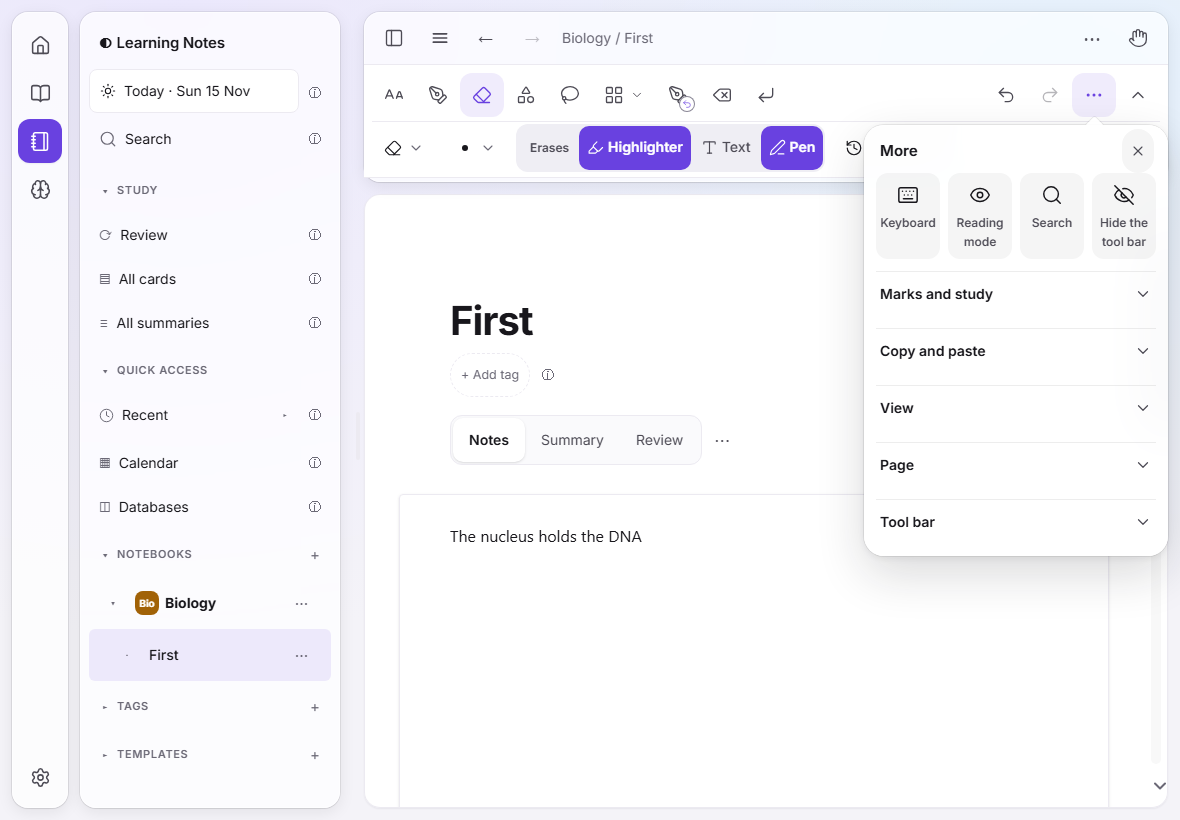
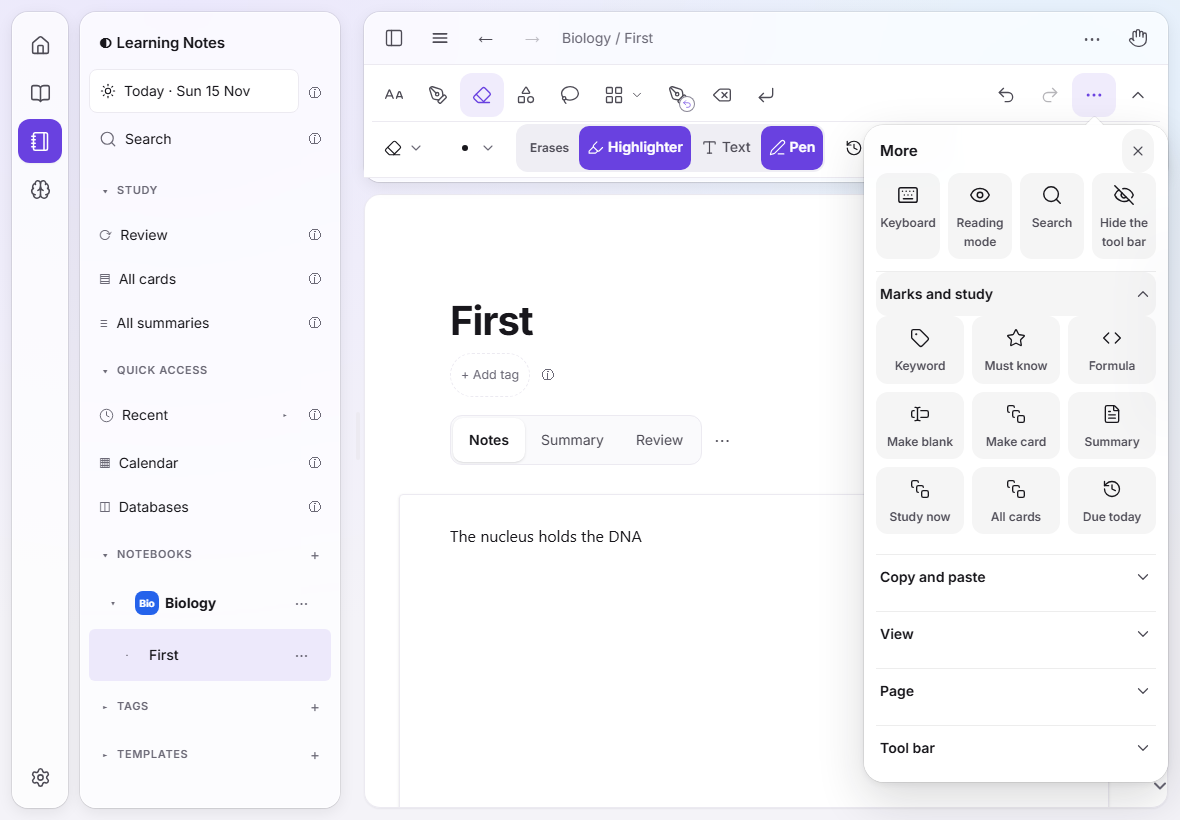
2A.12 review 2: shots open the study fold by test id (no swallowed miss), dark check, Copy and paste shot, pictures retaken

diff --git a/e2e/toolbarV9MoreShots.spec.ts b/e2e/toolbarV9MoreShots.spec.ts
@@ -1,6 +1,6 @@
 // Browser types for code that runs inside the page.
 /// <reference lib="dom" />
-import { test } from '@playwright/test'
+import { expect, test, type Page } from '@playwright/test'
 import { mkdirSync } from 'node:fs'
 import { createNotebook, startInMode, typeInEditor } from './helpers.ts'
 
@@ -47,13 +47,60 @@ for (const level of ['beginner', 'professional'] as const)
         await page.getByTestId('v8-tool-pen').click()
         await page.getByTestId('v8-tool-eraser').click()
         await page.getByTestId('v8-more').click()
-        await page
-          .getByRole('button', { name: 'Mark for review' })
-          .click()
-          .catch(() => {})
-        await page.waitForTimeout(600)
+        await openFold(page, 'more-group-study')
+        if (theme === 'dark') {
+          // Section 7: the dark picture must really be dark.
+          await expect(page.locator('html')).toHaveAttribute(
+            'data-theme',
+            'night',
+          )
+          const bg = await page.evaluate(
+            () => getComputedStyle(document.body).backgroundColor,
+          )
+          const [r, g, b] = (bg.match(/\d+/g) ?? []).map(Number)
+          expect(r + g + b, `body background ${bg}`).toBeLessThan(150)
+        }
         mkdirSync(OUT, { recursive: true })
         await page.screenshot({
           path: `${OUT}/more-${level}-${theme}-${size}.png`,
         })
       })
+
+/** Opens a More card fold by its test id; a missed click fails the shot. */
+async function openFold(page: Page, testId: string) {
+  const head = page.getByTestId(testId).locator('.fgroup-head')
+  await head.scrollIntoViewIfNeeded()
+  await head.click()
+  await expect(head).toHaveAttribute('aria-expanded', 'true')
+  await page.waitForTimeout(600)
+}
+
+test('more professional light ipad-upright copy open', async ({ page }) => {
+  await page.setViewportSize({ width: 820, height: 1180 })
+  await page.emulateMedia({ colorScheme: 'light' })
+  await page.addInitScript(() => {
+    localStorage.setItem(
+      'learning-notes:level',
+      JSON.stringify({
+        level: 'professional',
+        unlocked: ['tb.layouts', 'tb.allTools'],
+      }),
+    )
+    localStorage.setItem('learning-notes:theme', JSON.stringify('light'))
+  })
+  await startInMode(page, 'touch')
+  await page.goto('/?flags=toolbar.v8,toolbar.menu')
+  await createNotebook(page, 'Biology', 'First')
+  await typeInEditor(page, 'The nucleus holds the DNA')
+  await page.getByTestId('v8-more').click()
+  await openFold(page, 'more-group-copy')
+  for (const id of ['copy', 'cut', 'paste']) {
+    const tile = page.getByTestId(`v8-more-${id}`)
+    await tile.scrollIntoViewIfNeeded()
+    await expect(tile).toBeVisible()
+  }
+  mkdirSync(OUT, { recursive: true })
+  await page.screenshot({
+    path: `${OUT}/more-professional-light-ipad-upright-copy.png`,
+  })
+})

diff --git a/docs/mockups/toolbar-v9-build-shots/2a12-more/INDEX.md b/docs/mockups/toolbar-v9-build-shots/2a12-more/INDEX.md
@@ -1,5 +1,11 @@
-# 2A.12 More card, first look (chromium, after last source edit)
+# 2A.12 More card, first look (chromium, after last source edit, 15 Nov 2026)
 
 Files `more-<level>-<theme>-<size>.png`: level beginner|professional, theme light|dark, size ipad-upright|ipad-sideways|phone.
-Taken by `SHOTS=1 npx playwright test e2e/toolbarV9MoreShots.spec.ts` with Pen then Eraser chosen (so Back to Pen shows for Professional) and the Mark for review (Marks and study) fold open.
-Compare: docs/mockups/toolbar-v9/toolbar-v9.html (More card, bar ends). Top row: Keyboard, Reading mode, Search, Hide the tool bar. Settings and All tools are under the Tool bar fold (closed in the pictures). View, Page, Copy and paste and Tool bar folds are closed.
+Taken by `SHOTS=1 npx playwright test e2e/toolbarV9MoreShots.spec.ts --project=chromium` with Pen then Eraser chosen (so Back to Pen shows for Professional). The study fold is opened by its test id `more-group-study`; the shot fails if it does not open.
+
+- Beginner: the fold is "Mark for review" with Keyword, Must know, Formula, Make blank, Make card.
+- Professional: the fold is "Marks and study" and adds Summary, Study now, All cards, Due today (v9's Summary, Quiz me, Flashcards, Review today).
+- `more-professional-light-ipad-upright-copy.png`: the Copy and paste fold open, with the Copy, Cut, Paste tiles and Copy as plain text, Copy as Markdown, Paste as plain text, Copy page with pictures.
+
+Top row: Keyboard, Reading mode, Search, Hide the tool bar. Settings and All tools are under the Tool bar fold (closed). View, Page, Copy and paste and Tool bar folds are closed in the 12 level/theme/size pictures.
+Compare: docs/mockups/toolbar-v9/toolbar-v9.html (More card, bar ends).
